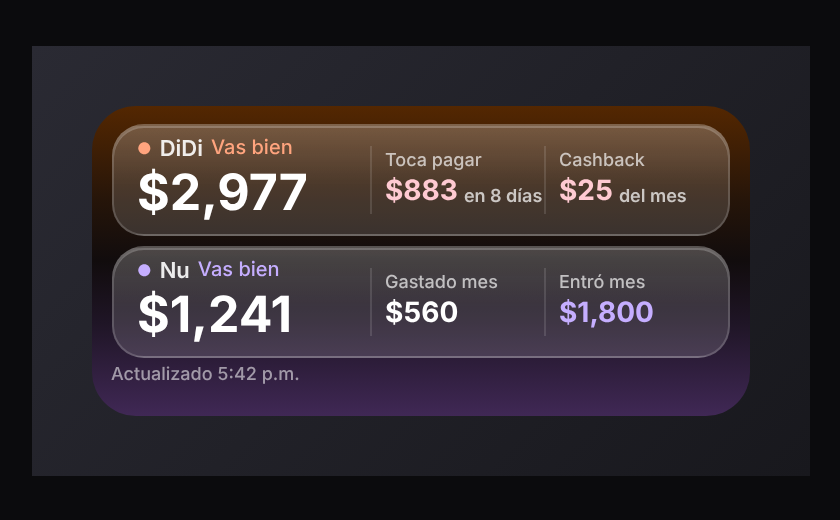
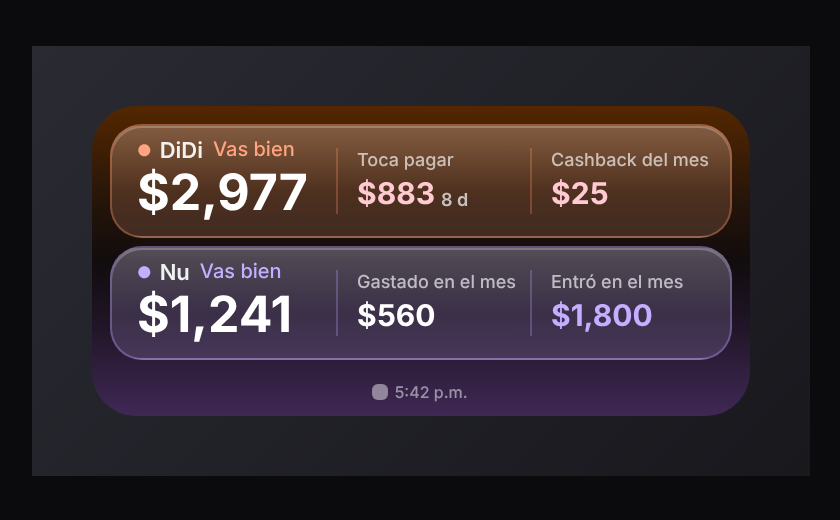
Widget: cuadrado (chico) con dos cuentas, fichas con tinte, hora integrada, mediano afinado
Claude-Session: https://claude.ai/code/session_019sJgDXVyUhwuuNFTRvEWw6

diff --git a/scriptable/Caudal-widget.js b/scriptable/Caudal-widget.js
@@ -14,12 +14,13 @@ const CLAVE = 'PEGA_AQUI_LA_CLAVE';
 //    toca la fila de widgets → Scriptable → elige el rectangular → Script: este.
 //
 // Cuentas (DiDi, Nu…):
-//  - Sin parámetro, en tamaño MEDIANO (o grande): un solo widget con las cuentas apiladas, una "ficha de
-//    vidrio" por cuenta (DiDi arriba, Nu abajo), cada una con lo que le toca según su tipo, y un fondo que
-//    pasa suavemente del color de una cuenta al de la otra.
+//  - Sin parámetro, en tamaño CHICO (cuadrado), mediano o grande: un solo widget con las cuentas apiladas,
+//    una "ficha de vidrio" por cuenta (DiDi arriba, Nu abajo) con el tinte de su color y lo que le toca
+//    según su tipo, y un fondo que pasa suavemente del color de una cuenta al de la otra. Los colores salen
+//    de la paleta de cada cuenta (la misma de la app): si cambias el color en Ajustes, el widget lo sigue.
 //  - Con parámetro (mantener presionado el widget → Editar widget → Parameter: Nu o DiDi): solo esa cuenta,
 //    en tamaño chico o mediano. Así puedes tener un widget de cada cuenta.
-//  - Tamaño chico sin parámetro: la cuenta que se eligió por última vez en la app.
+//  - Si solo hay una cuenta, el widget es el de siempre (Libre y datos de la tarjeta).
 //
 // Tocar el widget abre la app (en Safari, ya conectada). Para anotar gastos se usa el ícono "Anotar" (atajo).
 const ABRIR_APP = true;   // false = tocar el widget lo actualiza al momento (abre Scriptable un instante)
@@ -238,7 +239,7 @@ function bloqueoRect(w, r) {
 
 /* ---------- varias cuentas en un solo widget (fichas de vidrio apiladas) ---------- */
 
-const MAX_FICHAS = { medium: 2, large: 5 };
+const MAX_FICHAS = { small: 2, medium: 2, large: 5 };
 
 async function cargarTodas(familia) {
   const fm = FileManager.local();
@@ -292,94 +293,150 @@ function fondoVarias(ests) {
   return g;
 }
 
-/** Cristal de la ficha: velo claro con brillo en la parte de arriba (iOS no deja desenfocar de verdad). */
-function cristal(ancho, alto) {
+/** Cristal de la ficha: velo con el tinte de la cuenta y brillo arriba (iOS no deja desenfocar de verdad). */
+function cristal(ancho, alto, tinte) {
   const dc = new DrawContext();
   dc.size = new Size(ancho, alto); dc.opaque = false; dc.respectScreenScale = true;
-  dc.setFillColor(new Color('#ffffff', 0.075)); dc.fillRect(new Rect(0, 0, ancho, alto));
-  const franjas = 22, zona = alto * 0.55;
+  dc.setFillColor(new Color('#ffffff', 0.05)); dc.fillRect(new Rect(0, 0, ancho, alto));
+  dc.setFillColor(new Color(tinte, 0.13)); dc.fillRect(new Rect(0, 0, ancho, alto));
+  const franjas = 22, zona = alto * 0.6;
   for (let i = 0; i < franjas; i++) {
-    const a = 0.16 * Math.pow(1 - i / franjas, 2);
-    dc.setFillColor(new Color('#ffffff', a));
+    dc.setFillColor(new Color('#ffffff', 0.15 * Math.pow(1 - i / franjas, 2)));
     dc.fillRect(new Rect(0, (zona / franjas) * i, ancho, zona / franjas + 0.5));
   }
-  dc.setFillColor(new Color('#ffffff', 0.22)); dc.fillRect(new Rect(0, 0, ancho, 1.2));   // filo de luz arriba
+  dc.setFillColor(new Color('#ffffff', 0.24)); dc.fillRect(new Rect(0, 0, ancho, 1.2));   // filo de luz arriba
   return dc.getImage();
 }
 
-/** Un indicador chico (etiqueta + valor) para el lado derecho de la ficha. */
+/** Plazo corto para espacios chicos: "hoy", "mañana", "8 d". */
+function plazoCorto(r) {
+  const d = r.dias_para_pagar;
+  return d < 0 ? 'vencido' : d === 0 ? 'hoy' : d === 1 ? 'mañana' : d + ' d';
+}
+
+/** El dato que más importa de la tarjeta, con su color. */
+function datoTarjeta(r, P) {
+  if (r.por_pagar > 0) {
+    const d = r.dias_para_pagar;
+    return { etq: d < 0 ? 'Vencido' : 'Pagar', valor: sinCentavos(r.por_pagar), nota: plazoCorto(r), color: d <= 1 ? col(P.coral) : col(P.pistache) };
+  }
+  if (r.deuda_tarjeta > 0) return { etq: 'Debes', valor: sinCentavos(r.deuda_tarjeta), nota: '', color: BLANCO() };
+  return { etq: 'Tarjeta', valor: 'Sin deuda', nota: '', color: col(P.hoja) };
+}
+
+/** Un indicador (etiqueta + valor + nota). */
 function indicador(stack, etiqueta, valor, nota, colorValor, ancho) {
   const v = stack.addStack(); v.layoutVertically(); v.size = new Size(ancho, 0);
-  texto(v, etiqueta, Font.mediumSystemFont(9), BLANCO(0.68), { minimumScaleFactor: 0.7 });
+  texto(v, etiqueta, Font.mediumSystemFont(9), BLANCO(0.66), { minimumScaleFactor: 0.7 });
   v.addSpacer(1);
   const f = v.addStack(); f.bottomAlignContent();
-  texto(f, valor, Font.boldSystemFont(14), colorValor || BLANCO(), { minimumScaleFactor: 0.6 });
-  if (nota) { f.addSpacer(3); texto(f, nota, Font.semiboldSystemFont(9), BLANCO(0.72), { minimumScaleFactor: 0.6 }); }
+  texto(f, valor, Font.boldSystemFont(15), colorValor || BLANCO(), { minimumScaleFactor: 0.6 });
+  if (nota) { f.addSpacer(3); texto(f, nota, Font.semiboldSystemFont(9), BLANCO(0.7), { minimumScaleFactor: 0.6 }); }
 }
 
-/** Lo relevante de cada cuenta según su tipo: tarjeta (y cashback si lo hay), o lo del mes en débito. */
+/** Lo relevante de cada cuenta en el mediano: tarjeta (y cashback si lo hay), o lo del mes en débito. */
 function indicadoresDe(d, est) {
-  const r = d.r, P = est.pal, sin = [];
-  if (r.tipo === 'debito') {
-    return [['Gastado mes', sinCentavos(r.gastado_mes || 0), '', null], ['Entró mes', sinCentavos(r.recibido_mes || 0), '', col(P.hoja)]];
-  }
-  if (r.por_pagar > 0) {
-    const dd = r.dias_para_pagar;
-    sin.push([dd < 0 ? 'Tarjeta vencida' : 'Toca pagar', sinCentavos(r.por_pagar), plazo(r), dd <= 1 ? col(P.coral) : col(P.pistache)]);
-  } else if (r.deuda_tarjeta > 0) sin.push(['Debes en tarjeta', sinCentavos(r.deuda_tarjeta), '', null]);
-  else sin.push(['Tarjeta', 'Sin deuda', '', col(P.hoja)]);
+  const r = d.r, P = est.pal;
+  if (r.tipo === 'debito') return [['Gastado en el mes', sinCentavos(r.gastado_mes || 0), '', null], ['Entró en el mes', sinCentavos(r.recibido_mes || 0), '', col(P.hoja)]];
+  const t = datoTarjeta(r, P);
+  const lista = [[t.etq === 'Pagar' ? 'Toca pagar' : t.etq, t.valor, t.nota, t.color]];
   // Cashback solo si esta tarjeta lo lleva (si no ha ganado nada, en su lugar va el saldo en débito).
-  if ((r.cashback_estimado || 0) > 0) sin.push(['Cashback', sinCentavos(r.cashback_estimado), 'del mes', col(P.pistache)]);
-  else sin.push(['En débito', sinCentavos(r.saldo_debito), '', col(P.azul)]);
-  return sin;
+  if ((r.cashback_estimado || 0) > 0) lista.push(['Cashback del mes', sinCentavos(r.cashback_estimado), '', col(P.pistache)]);
+  else lista.push(['En débito', sinCentavos(r.saldo_debito), '', col(P.azul)]);
+  return lista;
 }
 
-function ficha(w, d, est, alto, ancho) {
-  const r = d.r, nom = d.cuenta ? d.cuenta.nombre : '';
+/** Marco de la ficha: vidrio con tinte, borde de luz del color de la cuenta. */
+function marco(w, est, alto, ancho, radio, padH) {
   const f = w.addStack(); f.layoutHorizontally(); f.centerAlignContent();
-  f.size = new Size(0, alto); f.cornerRadius = 16; f.setPadding(6, 12, 6, 12);
-  f.backgroundImage = cristal(ancho, alto);
-  f.borderWidth = 1; f.borderColor = BLANCO(0.17);
+  f.size = new Size(0, alto); f.cornerRadius = radio; f.setPadding(5, padH, 5, padH);
+  f.backgroundImage = cristal(ancho, alto, est.pal.acento);
+  f.borderWidth = 1; f.borderColor = col(est.pal.acento, 0.34);
+  return f;
+}
 
+/** Ficha del widget chico (cuadrado): nombre y estado, cifra grande y un dato de apoyo. */
+function fichaChica(w, d, est, alto, ancho) {
+  const r = d.r, nom = d.cuenta ? d.cuenta.nombre : '';
+  const f = marco(w, est, alto, ancho, 14, 9);
+  const c = f.addStack(); c.layoutVertically();
+  const l1 = c.addStack(); l1.centerAlignContent();
+  texto(l1, '●', Font.systemFont(7), col(est.acento)); l1.addSpacer(4);
+  texto(l1, nom, Font.semiboldSystemFont(11), BLANCO(0.92), { minimumScaleFactor: 0.7 });
+  l1.addSpacer();
+  texto(l1, est.texto, Font.mediumSystemFont(9), col(est.acento), { minimumScaleFactor: 0.7 });
+  monto(c, r.libre, 23, false);
+  const l3 = c.addStack(); l3.centerAlignContent();
+  if (r.tipo === 'debito') {
+    texto(l3, 'Gastado', Font.mediumSystemFont(9), BLANCO(0.64)); l3.addSpacer(3);
+    texto(l3, sinCentavos(r.gastado_mes || 0), Font.boldSystemFont(11), BLANCO(0.92), { minimumScaleFactor: 0.6 }); l3.addSpacer(3);
+    texto(l3, 'este mes', Font.mediumSystemFont(9), BLANCO(0.64), { minimumScaleFactor: 0.6 });
+  } else {
+    const t = datoTarjeta(r, est.pal);
+    texto(l3, t.etq, Font.mediumSystemFont(9), BLANCO(0.64)); l3.addSpacer(3);
+    texto(l3, t.valor, Font.boldSystemFont(11), t.color, { minimumScaleFactor: 0.6 });
+    if (t.nota) { l3.addSpacer(3); texto(l3, '· ' + t.nota, Font.mediumSystemFont(9), BLANCO(0.64), { minimumScaleFactor: 0.6 }); }
+  }
+}
+
+/** Ficha del widget mediano (ancho): cifra a la izquierda, dos indicadores a la derecha. */
+function fichaMediana(w, d, est, alto, ancho) {
+  const r = d.r, nom = d.cuenta ? d.cuenta.nombre : '';
+  const f = marco(w, est, alto, ancho, 16, 13);
   const izq = f.addStack(); izq.layoutVertically();
   const l1 = izq.addStack(); l1.centerAlignContent();
   texto(l1, '●', Font.systemFont(8), col(est.acento)); l1.addSpacer(4);
-  texto(l1, nom, Font.semiboldSystemFont(11), BLANCO(0.9), { minimumScaleFactor: 0.7 });
-  l1.addSpacer(4);
+  texto(l1, nom, Font.semiboldSystemFont(11), BLANCO(0.92), { minimumScaleFactor: 0.7 });
+  l1.addSpacer(5);
   texto(l1, est.texto, Font.mediumSystemFont(10), col(est.acento), { minimumScaleFactor: 0.7 });
-  izq.addSpacer(1);
   monto(izq, r.libre, 25, false);
   f.addSpacer();
-
   const ind = indicadoresDe(d, est);
   ind.forEach((x, i) => {
-    const sep = f.addStack(); sep.backgroundColor = BLANCO(0.12); sep.size = new Size(1, alto - 22);
-    f.addSpacer(7);
-    indicador(f, x[0], x[1], x[2], x[3], 72);
-    if (i < ind.length - 1) f.addSpacer(7);
+    f.addSpacer(10);
+    const sep = f.addStack(); sep.backgroundColor = col(est.pal.acento, 0.28); sep.size = new Size(1, alto - 24);
+    f.addSpacer(10);
+    indicador(f, x[0], x[1], x[2], x[3], 76);
   });
 }
 
-function variasFichas(datos) {
+/** Alto del widget chico según el iPhone (en puntos), para que las dos fichas quepan sin recortarse. */
+function ladoChico() {
+  const t = { 320: 141, 375: 148, 390: 158, 393: 158, 414: 169, 428: 170, 430: 170 };
+  let w = 390; try { w = Device.screenSize().width; } catch (e) {}
+  return t[w] || 158;
+}
+
+function horaTexto(t) {
+  const df = new DateFormatter(); df.locale = 'es_MX'; df.dateFormat = 'h:mm a';
+  return df.string(new Date(t)).replace('a. m.', 'a.m.').replace('p. m.', 'p.m.');
+}
+
+function variasFichas(datos, fam) {
   const w = new ListWidget();
   w.refreshAfterDate = new Date(Date.now() + 5 * 60 * 1000);
-  const fam = config.widgetFamily || 'medium';
   const ests = datos.lista.map(estadoDe);
   w.backgroundGradient = fondoVarias(ests);
-  w.setPadding(9, 10, 5, 10);
-  const alto = 56, ancho = 310;
+  const chico = fam === 'small';
+  const lado = ladoChico(), n = datos.lista.length;
+  const gap = 4, pie = 11, pad = chico ? 8 : 9;
+  w.setPadding(pad, pad, pad - 2, pad);
+  // El alto de cada ficha sale de lo que queda (chico) o es fijo (mediano y grande).
+  const alto = chico ? Math.floor((lado - pad * 2 + 2 - pie - gap * (n - 1)) / n) : fam === 'large' ? 62 : 57;
+  const ancho = chico ? lado - pad * 2 : 310;
   datos.lista.forEach((d, i) => {
-    if (i > 0) w.addSpacer(5);
-    ficha(w, d, ests[i], fam === 'large' ? 62 : alto, ancho);
+    if (i > 0) w.addSpacer(gap);
+    (chico ? fichaChica : fichaMediana)(w, d, ests[i], alto, ancho);
   });
-  w.addSpacer(3);
-  const pie = w.addStack(); pie.centerAlignContent();
-  pie.addSpacer();
-  const df = new DateFormatter(); df.locale = 'es_MX'; df.dateFormat = 'h:mm a';
-  const hora = df.string(new Date(datos.t)).replace('a. m.', 'a.m.').replace('p. m.', 'p.m.');
-  texto(pie, (datos.viejo ? 'Sin conexión · ' : 'Actualizado ') + hora + (datos.total > datos.lista.length ? ' · +' + (datos.total - datos.lista.length) + ' más' : ''),
-    Font.mediumSystemFont(9), datos.viejo ? col('#d6e38f', 0.9) : BLANCO(0.55));
-  pie.addSpacer();
+  w.addSpacer();
+  // Hora de la última actualización, centrada y discreta, para saber si las cifras están al día.
+  const fila = w.addStack(); fila.centerAlignContent(); fila.size = new Size(0, pie - 2);
+  fila.addSpacer();
+  const ic = SFSymbol.named(datos.viejo ? 'wifi.slash' : 'arrow.clockwise');
+  if (ic) { ic.applyFont(Font.semiboldSystemFont(7)); const im = fila.addImage(ic.image); im.tintColor = BLANCO(0.5); im.imageSize = new Size(8, 8); fila.addSpacer(3); }
+  texto(fila, horaTexto(datos.t) + (datos.viejo ? ' · sin conexión' : '') + (!chico && datos.total > n ? ' · +' + (datos.total - n) + ' más' : ''),
+    Font.mediumSystemFont(8), datos.viejo ? col('#d6e38f', 0.9) : BLANCO(0.5));
+  fila.addSpacer();
   return w;
 }
 
@@ -400,9 +457,9 @@ function abrir(w) {
 async function crear() {
   const fam0 = config.widgetFamily || 'medium';
   // Sin parámetro, en mediano o grande: todas las cuentas en un solo widget.
-  if ((CUENTA === 'activa' || CUENTA.toLowerCase() === 'todas') && (fam0 === 'medium' || fam0 === 'large')) {
+  if ((CUENTA === 'activa' || CUENTA.toLowerCase() === 'todas') && (fam0 === 'small' || fam0 === 'medium' || fam0 === 'large')) {
     const todas = await cargarTodas(fam0);
-    if (!todas.error && todas.lista.length > 1) return abrir(variasFichas(todas));
+    if (!todas.error && todas.lista.length > 1) return abrir(variasFichas(todas, fam0));
   }
   const datos = await cargar();
   DATOS = datos;
